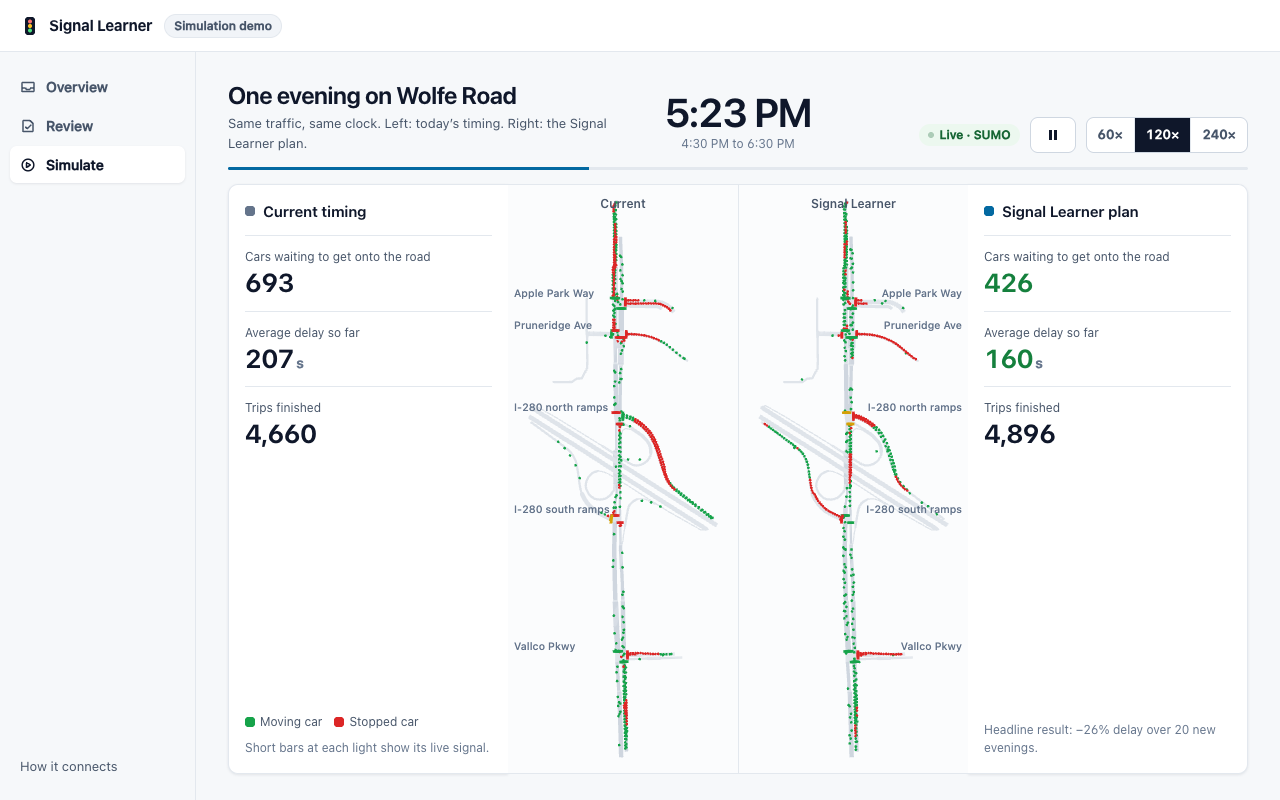
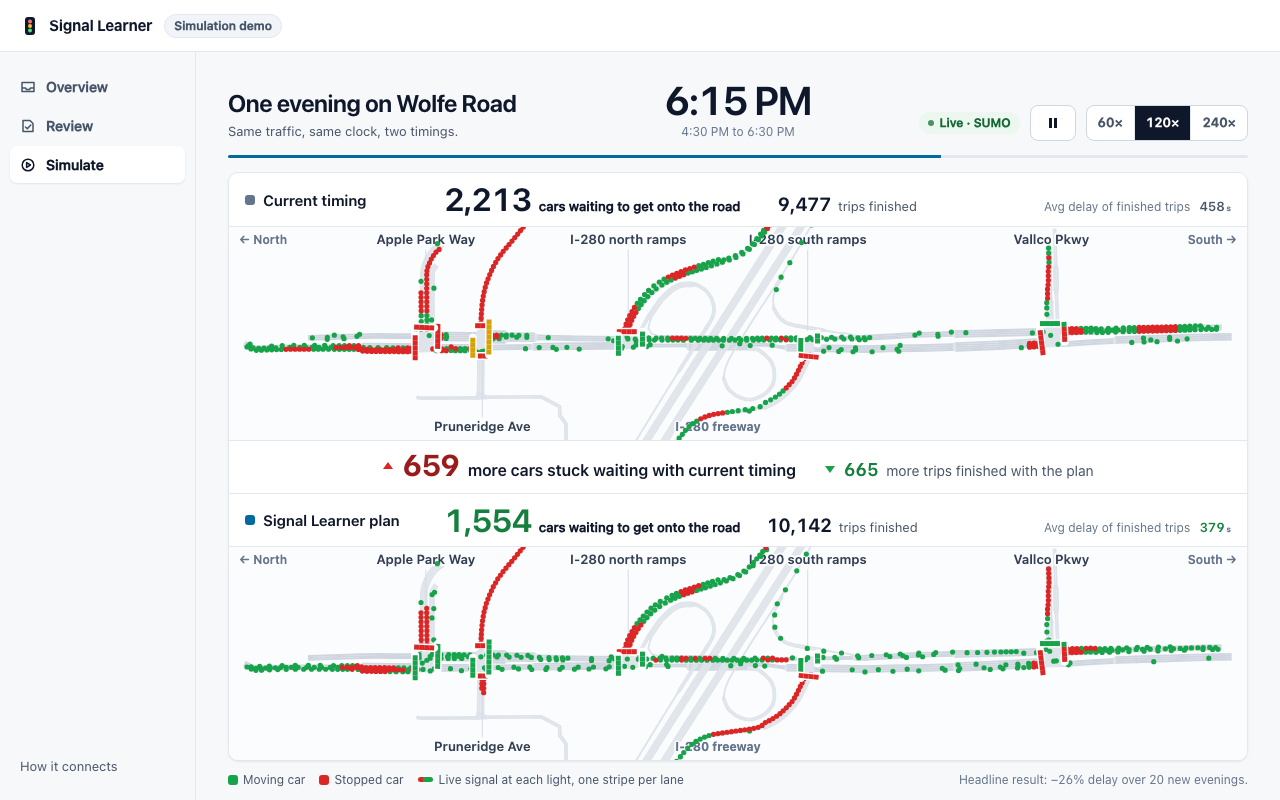
Console v2: road runs left to right, stacked maps, live gap callout, waiting count as the hero

diff --git a/dashboard/console/console.js b/dashboard/console/console.js
@@ -117,17 +117,22 @@ const decision = d => decisions[d.road] || {};
 /* ---------- Map (real SUMO lane shapes) ---------- */
 
 // Projection that fits the road's bounds into a w×h box, north up.
-function fit(geo, w, h, pad = 14) {
+// along: the road's length runs left→right across the full width (north on the left); side streets past the box edge are cut off.
+function fit(geo, w, h, pad = 14, along = false) {
   const [x0, y0, x1, y1] = geo.bounds;
+  if (along) {
+    const k = (w - 2 * pad) / (y1 - y0), mid = (x0 + x1) / 2;
+    return { k, x: (x, y) => pad + (y1 - y) * k, y: (x, y) => h / 2 - (x - mid) * k };
+  }
   const k = Math.min((w - 2 * pad) / (x1 - x0), (h - 2 * pad) / (y1 - y0));
   const ox = (w - (x1 - x0) * k) / 2, oy = (h - (y1 - y0) * k) / 2;
-  return { k, x: x => ox + (x - x0) * k, y: y => h - oy - (y - y0) * k };
+  return { k, x: (x, y) => ox + (x - x0) * k, y: (x, y) => h - oy - (y - y0) * k };
 }
 
 function path(ctx, p, xy) {
   ctx.beginPath();
-  ctx.moveTo(p.x(xy[0]), p.y(xy[1]));
-  for (let i = 2; i < xy.length; i += 2) ctx.lineTo(p.x(xy[i]), p.y(xy[i + 1]));
+  ctx.moveTo(p.x(xy[0], xy[1]), p.y(xy[0], xy[1]));
+  for (let i = 2; i < xy.length; i += 2) ctx.lineTo(p.x(xy[i], xy[i + 1]), p.y(xy[i], xy[i + 1]));
 }
 
 function canvasFor(box) {
@@ -158,23 +163,61 @@ const centre = sig => {
   return [mean(xs), mean(ys)];
 };
 
+const FONT = '-apple-system, BlinkMacSystemFont, "Segoe UI", sans-serif';
+
+function halo(ctx, text, x, y, color) {
+  ctx.lineWidth = 4; ctx.strokeStyle = 'rgba(251,252,253,.92)'; ctx.lineJoin = 'round';
+  ctx.strokeText(text, x, y);
+  ctx.fillStyle = color; ctx.fillText(text, x, y);
+}
+
+// Names for a left→right map: lights above the road (or below when two are close), the ends, and the freeway.
+function nameAlong(ctx, geo, p, w, h, gapFromRoad) {
+  ctx.textBaseline = 'middle';
+  ctx.font = `600 12px ${FONT}`;
+  ctx.textAlign = 'left'; halo(ctx, '← North', 10, 13, '#64748b');
+  ctx.textAlign = 'right'; halo(ctx, 'South →', w - 10, 13, '#64748b');
+  ctx.textAlign = 'center';
+  let free = 10 + ctx.measureText('← North').width + 10;
+  const below = [];
+  const sigs = geo.signals.map(sig => { const [cx, cy] = centre(sig); return { name: sig.name, x: p.x(cx, cy), y: p.y(cx, cy) }; }).sort((a, b) => a.x - b.x);
+  ctx.font = `600 13px ${FONT}`;
+  for (const s of sigs) {
+    const half = ctx.measureText(s.name).width / 2, top = s.x - half > free;
+    const ly = top ? 13 : h - 13;
+    if (top) free = s.x + half + 12; else below.push([s.x - half, s.x + half]);
+    ctx.strokeStyle = '#d5dce4'; ctx.lineWidth = 1;
+    ctx.beginPath(); ctx.moveTo(s.x, top ? ly + 10 : ly - 10); ctx.lineTo(s.x, top ? s.y - gapFromRoad : s.y + gapFromRoad); ctx.stroke();
+    halo(ctx, s.name, s.x, ly, '#334155');
+  }
+  const ramps = sigs.filter(s => s.name.startsWith('I-280'));
+  if (ramps.length === 2) {
+    ctx.font = `700 12px ${FONT}`;
+    const x = (ramps[0].x + ramps[1].x) / 2, half = ctx.measureText('I-280 freeway').width / 2;
+    if (!below.some(([a, b]) => x + half > a && x - half < b)) halo(ctx, 'I-280 freeway', x, h - 13, '#64748b');
+  }
+}
+
 // Static map with named light markers (Overview, De Anza card).
 function drawMap(box, geo) {
   const { ctx, w, h } = canvasFor(box);
-  const p = fit(geo, w, h, 22);
+  const along = box.hasAttribute('data-along');
+  const p = fit(geo, w, h, 22, along);
   drawRoads(ctx, geo, p);
-  ctx.font = '600 12px -apple-system, BlinkMacSystemFont, "Segoe UI", sans-serif';
+  ctx.font = `600 12px ${FONT}`;
   ctx.textBaseline = 'middle';
   geo.signals.forEach(sig => {
-    const [cx, cy] = centre(sig), x = p.x(cx), y = p.y(cy);
+    const [cx, cy] = centre(sig), x = p.x(cx, cy), y = p.y(cx, cy);
     ctx.beginPath(); ctx.arc(x, y, 7, 0, 2 * Math.PI);
     ctx.fillStyle = '#fff'; ctx.fill(); ctx.lineWidth = 2.5; ctx.strokeStyle = '#0369a1'; ctx.stroke();
     ctx.beginPath(); ctx.arc(x, y, 2.5, 0, 2 * Math.PI); ctx.fillStyle = '#0369a1'; ctx.fill();
+    if (along) return;
     const label = sig.name, tw = ctx.measureText(label).width;
     const lx = x + 14 + tw + 8 < w ? x + 14 : Math.max(4, x - 14 - tw);
     ctx.fillStyle = 'rgba(255,255,255,.88)'; ctx.fillRect(lx - 4, y - 10, tw + 8, 20);
     ctx.fillStyle = '#0f172a'; ctx.fillText(label, lx, y);
   });
+  if (along) nameAlong(ctx, geo, p, w, h, 12);
 }
 
 const mapLabel = geo => `Map of ${geo.street} from the simulation road network, with ${geo.signals.length} traffic lights: ${geo.signals.map(s => s.name).join(', ')}.`;
@@ -190,10 +233,10 @@ function overview(w, z) {
   <div class="overview">
     <section class="card map-card" aria-labelledby="map-title">
       <div class="row" style="justify-content:space-between"><h2 id="map-title">${esc(w.info.street)}</h2><span class="hint">${w.geo.signals.length} traffic lights</span></div>
-      <div class="map" id="overview-map" role="img" aria-label="${esc(mapLabel(w.geo))}"></div>
+      <div class="map" id="overview-map" data-along role="img" aria-label="${esc(mapLabel(w.geo))} North is on the left."></div>
     </section>
+    <h2 class="label">Inbox</h2>
     <section class="inbox" aria-label="Inbox">
-      <h2 class="label">Inbox</h2>
       <article class="card rec primary">
         <div class="meta"><span class="pill ${status[1]}">${status[0]}</span><span>Evening peak, ${ampm(seconds(w.info.begin))}–${ampm(seconds(w.info.end))}</span></div>
         <h3>${esc(w.info.street)}: new timing ready for review</h3>
@@ -321,34 +364,41 @@ function calm(d) {
 
 function simulate(d) {
   const h = heldout(d), begin = seconds(d.info.begin), end = seconds(d.info.end);
-  const panel = (arm, side) => `<section class="card side-panel ${side}" aria-labelledby="h-${arm}">
-    <h2 id="h-${arm}"><span class="sw" style="background:${arm === 'old' ? 'var(--faint)' : 'var(--accent)'}"></span>${ARM_NAME[arm]}</h2>
-    <div class="counter"><span>Cars waiting to get onto the road</span><b data-k="waiting" data-arm="${arm}">–</b></div>
-    <div class="counter"><span>Average delay so far</span><b data-k="delay" data-arm="${arm}">–</b></div>
-    <div class="counter"><span>Trips finished</span><b data-k="finished" data-arm="${arm}">–</b></div>
-    <div class="panel-foot">${arm === 'old'
-      ? '<span class="legend"><span><i class="dot" style="background:var(--go)"></i>Moving car</span><span><i class="dot" style="background:var(--stop)"></i>Stopped car</span></span><span class="hint">Short bars at each light show its live signal.</span>'
-      : `<span class="hint">Headline result: ${pct(h.oldMean, h.planMean)} delay over ${h.n} new evenings.</span>`}</div>
+  const arrow = up => `<svg viewBox="0 0 12 12" aria-hidden="true"><path d="${up ? 'M6 2 11 9H1z' : 'M6 10 1 3h10z'}"/></svg>`;
+  const panel = arm => `<section class="arm ${arm}" aria-labelledby="h-${arm}">
+    <div class="arm-head">
+      <h2 id="h-${arm}"><span class="sw"></span>${ARM_NAME[arm]}</h2>
+      <div class="counter hero"><b data-k="waiting" data-arm="${arm}"><small>–</small></b><span>cars waiting to get onto the road</span></div>
+      <div class="counter"><b data-k="finished" data-arm="${arm}"><small>–</small></b><span>trips finished</span></div>
+      <div class="counter tiny"><span>Avg delay of finished trips</span><b data-k="delay" data-arm="${arm}"><small>–</small></b></div>
+    </div>
+    <div class="sim-map" id="map-${arm}" role="img" aria-label="Live map, ${ARM_NAME[arm]}: ${esc(d.info.street)} runs left to right, north on the left. Moving cars green, stopped cars red."></div>
   </section>`;
-  return `<div class="page" style="max-width:1180px">
+  return `<div class="page sim-page">
   <div class="sim-top">
-    <div><h1>One evening on ${esc(d.info.street)}</h1><p class="small muted" style="margin-top:4px">Same traffic, same clock. Left: today’s timing. Right: the Signal Learner plan.</p></div>
+    <div><h1>One evening on ${esc(d.info.street)}</h1><p class="small muted" style="margin-top:4px">Same traffic, same clock, two timings.</p></div>
     <div class="clock" aria-live="off"><b id="clock">${ampm(begin)}</b><span id="clock-note">${ampm(begin)} to ${ampm(end)}</span></div>
     <div class="right"><span class="pill" id="source">Ready</span>
       <button class="btn" id="play" data-action="toggle" disabled aria-label="Pause"><svg viewBox="0 0 16 16" aria-hidden="true"><path d="M4 3h3v10H4zM9 3h3v10H9z"/></svg></button>
       <div class="seg" role="group" aria-label="Speed">${SPEEDS.map(s => `<button type="button" data-speed="${s}" aria-pressed="${s === 120}">${s}×</button>`).join('')}</div></div>
   </div>
   <div class="progress" aria-hidden="true"><i id="progress"></i></div>
-  <div class="stage">
-    ${panel('old', 'left')}
-    <div class="sim-map" id="map-old" role="img" aria-label="Live map, current timing: moving cars green, stopped cars red."><span class="caption">Current</span></div>
-    <div class="sim-map" id="map-plan" role="img" aria-label="Live map, Signal Learner plan: moving cars green, stopped cars red."><span class="caption">Signal Learner</span></div>
-    ${panel('plan', 'right')}
+  <div class="card stage">
+    ${panel('old')}
+    <div class="gap even" id="gap">
+      <p class="gap-main">${arrow(true)}<b id="gap-n">0</b><span class="gap-on">more cars stuck waiting with current timing</span><span class="gap-off">Same cars, same evening: watch the queues</span></p>
+      <p class="gap-sub" id="gap-sub" hidden>${arrow(false)}<b id="gap-f">0</b>more trips finished with the plan</p>
+    </div>
+    ${panel('plan')}
     <div class="overlay" id="overlay">
       <div class="card pad start" id="start"><h2>Watch both timings handle the same evening</h2>
         <p class="small muted">${ampm(begin)} to ${ampm(end)}, about ${Math.round((end - begin) / 120)} seconds at 120×. Each dot is a car.</p>
         <button class="btn primary lg" data-action="start">Run the simulation</button></div>
     </div>
+  </div>
+  <div class="sim-foot">
+    <span class="legend"><span><i class="dot" style="background:var(--go)"></i>Moving car</span><span><i class="dot" style="background:var(--stop)"></i>Stopped car</span><span><i class="sig"></i>Live signal at each light, one stripe per lane</span></span>
+    <span class="hint">Headline result: ${pct(h.oldMean, h.planMean)} delay over ${h.n} new evenings.</span>
   </div>
   <p class="sr" aria-live="polite" id="sim-status"></p>
 </div>`;
@@ -422,6 +472,24 @@ async function loadRecording() {
   return { frames, final: head.final };
 }
 
+// One bar per approach at each light, across its stop line, with one stripe per lane (lanes are too close to draw apart).
+function approaches(stops, p) {
+  const groups = [];
+  for (const s of stops) {
+    const [ax, ay, bx, by] = s.xy, x = p.x(bx, by), y = p.y(bx, by);
+    const dx = x - p.x(ax, ay), dy = y - p.y(ax, ay), l = Math.hypot(dx, dy) || 1, ux = dx / l, uy = dy / l;
+    let g = groups.find(g => g.ux * ux + g.uy * uy > 0.8);
+    if (!g) groups.push(g = { ux, uy, lanes: [] });
+    g.lanes.push({ x, y, links: s.links });
+  }
+  return groups.map(({ ux, uy, lanes }) => {
+    const nx = -uy, ny = ux, cx = mean(lanes.map(l => l.x)), cy = mean(lanes.map(l => l.y));
+    const across = l => (l.x - cx) * nx + (l.y - cy) * ny;
+    lanes.sort((a, b) => across(a) - across(b));
+    return { x: cx - ux * 2, y: cy - uy * 2, nx, ny, len: Math.max(lanes.length * 5, 10), links: lanes.map(l => l.links) };
+  });
+}
+
 const lightColor = (state, links) => {
   let c = 'r';
   for (const i of links) { const s = state[i]; if (s === 'G' || s === 'g') return '#16a34a'; if (s === 'y' || s === 'Y') c = 'y'; }
@@ -442,26 +510,20 @@ class Player {
   layout() {
     for (const v of this.views) {
       Object.assign(v, canvasFor(v.box));
-      v.p = fit(this.d.geo, v.w, v.h, 16);
+      v.p = fit(this.d.geo, v.w, v.h, 16, true);
       v.bg = document.createElement('canvas');
       v.bg.width = v.canvas.width; v.bg.height = v.canvas.height;
       const bg = v.bg.getContext('2d');
       const r = window.devicePixelRatio || 1;
       bg.setTransform(r, 0, 0, r, 0, 0);
       drawRoads(bg, this.d.geo, v.p);
-      bg.font = '500 10.5px -apple-system, BlinkMacSystemFont, "Segoe UI", sans-serif';
-      bg.fillStyle = '#64748b'; bg.textBaseline = 'middle';
-      bg.textAlign = v.arm === 'old' ? 'left' : 'right';
-      for (const sig of this.d.geo.signals) bg.fillText(sig.name, v.arm === 'old' ? 6 : v.w - 6, v.p.y(centre(sig)[1]) - 9);
-      v.stops = this.d.geo.signals.map(sig => sig.stops.map(s => {
-        const [ax, ay, bx, by] = s.xy, dx = bx - ax, dy = by - ay, l = Math.hypot(dx, dy) || 1;
-        return { x: v.p.x(bx), y: v.p.y(by), nx: -dy / l, ny: -dx / l, links: s.links };
-      }));
+      nameAlong(bg, this.d.geo, v.p, v.w, v.h, 18);
+      v.stops = this.d.geo.signals.map(sig => approaches(sig.stops, v.p));
     }
   }
   async start() {
     this.stopSource();
-    this.frames = []; this.idx = 0; this.t = this.begin; this.done = null; this.playing = true; this.last = performance.now();
+    this.frames = []; this.idx = 0; this.t = this.begin; this.done = null; this.playing = true; this.last = performance.now(); this.hundred = 0;
     document.getElementById('overlay').hidden = true;
     document.getElementById('play').disabled = false;
     this.say('Starting the simulation');
@@ -566,7 +628,7 @@ class Player {
       ctx.drawImage(v.bg, 0, 0, v.w, v.h);
       if (!sa) continue;
       if (!sa.index) { sa.index = new Map(); for (let i = 0; i < sa.n; i++) sa.index.set(sa.ids[i], i); }
-      const r = Math.max(1.4, 2.2 * p.k * 1.4);
+      const r = Math.max(2.6, 4 * p.k);
       for (const stopped of [0, 1]) {
         ctx.fillStyle = stopped ? '#dc2626' : '#16a34a';
         ctx.beginPath();
@@ -575,43 +637,62 @@ class Player {
           const j = sa.index.get(sb.ids[i]);
           const x = j === undefined ? sb.x[i] : sa.x[j] + (sb.x[i] - sa.x[j]) * u;
           const y = j === undefined ? sb.y[i] : sa.y[j] + (sb.y[i] - sa.y[j]) * u;
-          const px = p.x(x), py = p.y(y);
+          const px = p.x(x, y), py = p.y(x, y);
           ctx.moveTo(px + r, py); ctx.arc(px, py, r, 0, 6.2832);
         }
         ctx.fill();
       }
-      ctx.lineWidth = 2.5; ctx.lineCap = 'butt';
-      v.stops.forEach((stops, k) => {
+      v.stops.forEach((bars, k) => {
         const state = sa.lights[k] || '';
-        for (const s of stops) {
-          ctx.strokeStyle = lightColor(state, s.links);
-          ctx.beginPath(); ctx.moveTo(s.x - s.nx * 3, s.y - s.ny * 3); ctx.lineTo(s.x + s.nx * 3, s.y + s.ny * 3); ctx.stroke();
+        for (const s of bars) {
+          const x0 = s.x - s.nx * s.len / 2, y0 = s.y - s.ny * s.len / 2, step = s.len / s.links.length;
+          ctx.lineCap = 'round'; ctx.lineWidth = 8; ctx.strokeStyle = '#fff';
+          ctx.beginPath(); ctx.moveTo(x0, y0); ctx.lineTo(x0 + s.nx * s.len, y0 + s.ny * s.len); ctx.stroke();
+          ctx.lineCap = 'butt'; ctx.lineWidth = 5;
+          s.links.forEach((links, i) => {
+            ctx.strokeStyle = lightColor(state, links);
+            ctx.beginPath(); ctx.moveTo(x0 + s.nx * step * i, y0 + s.ny * step * i); ctx.lineTo(x0 + s.nx * step * (i + 1), y0 + s.ny * step * (i + 1)); ctx.stroke();
+          });
         }
       });
     }
     this.hud(a);
   }
+  // Writes only what changed, so it can run every frame.
   hud(a) {
-    const now = performance.now();
-    if (now - (this.hudAt || 0) < 200) return;
-    this.hudAt = now;
+    const set = (el, html) => { if (el._v !== html) { el._v = html; el.innerHTML = html; } };
     const t = Math.min(this.t, this.stop);
-    document.getElementById('clock').textContent = ampm(t);
-    document.getElementById('clock-note').textContent = t >= this.end ? 'Evening over: the last cars finish their trips' : `${ampm(this.begin)} to ${ampm(this.end)}`;
-    document.getElementById('progress').style.width = `${Math.min(100, (t - this.begin) / (this.stop - this.begin) * 100)}%`;
+    set(document.getElementById('clock'), ampm(t));
+    set(document.getElementById('clock-note'), t >= this.end ? 'Evening over: the last cars finish their trips' : `${ampm(this.begin)} to ${ampm(this.end)}`);
+    const bar = document.getElementById('progress'), width = `${Math.min(100, (t - this.begin) / (this.stop - this.begin) * 100).toFixed(1)}%`;
+    if (bar.style.width !== width) bar.style.width = width;
     const fmt = { waiting: x => x.toLocaleString(), finished: x => x.toLocaleString(), delay: x => `${Math.round(x)}<small>s</small>` };
-    const val = {};
-    for (const arm of ARMS) if (a[arm]) val[arm] = a[arm];
     for (const el of this.counters) {
-      const s = val[el.dataset.arm]; if (!s) continue;
-      el.innerHTML = fmt[el.dataset.k](s[el.dataset.k]);
-      const other = val[el.dataset.arm === 'old' ? 'plan' : 'old'];
+      const s = a[el.dataset.arm]; if (!s) continue;
+      set(el, fmt[el.dataset.k](s[el.dataset.k]));
+      const other = a[el.dataset.arm === 'old' ? 'plan' : 'old'];
       el.parentElement.classList.toggle('better', el.dataset.arm === 'plan' && !!other && el.dataset.k !== 'finished' && s[el.dataset.k] < other[el.dataset.k]);
     }
+    if (a.old && a.plan) this.gap(a.old.waiting - a.plan.waiting, a.plan.finished - a.old.finished);
+  }
+  gap(n, f) {
+    const box = document.getElementById('gap'), num = document.getElementById('gap-n');
+    box.classList.toggle('even', n <= 0);
+    if (n > 0 && num._v !== n) {
+      num._v = n; num.textContent = n.toLocaleString();
+      const hundred = Math.floor(n / 100);
+      if (hundred > (this.hundred || 0) && !matchMedia('(prefers-reduced-motion: reduce)').matches) {
+        num.animate([{ transform: 'scale(1.18)' }, { transform: 'none' }], { duration: 700, easing: 'cubic-bezier(.16, 1, .3, 1)' });
+      }
+      this.hundred = hundred;
+    }
+    document.getElementById('gap-sub').hidden = f <= 0;
+    const fin = document.getElementById('gap-f');
+    if (f > 0 && fin._v !== f) { fin._v = f; fin.textContent = f.toLocaleString(); }
   }
   finish() {
     this.done = true; this.playing = false;
-    this.hudAt = 0; this.draw();
+    this.draw();
     document.getElementById('play').disabled = true;
     const overlay = document.getElementById('overlay');
     overlay.innerHTML = endCard(this.d, this.final, !this.live);

diff --git a/dashboard/console/console.css b/dashboard/console/console.css
@@ -106,13 +106,13 @@ main { padding: 28px 32px 40px; min-width: 0; outline: none; }
 .hint { font-size: 12px; color: var(--faint); }
 
 /* ---------- Overview ---------- */
-.overview { display: grid; grid-template-columns: minmax(300px, 400px) 1fr; gap: 20px; align-items: start; }
-.map-card { padding: 16px 16px 12px; }
-.map-card .map { height: 560px; }
+.overview { display: grid; gap: 12px; }
+.map-card { padding: 16px 16px 8px; }
+.map-card .map { height: 220px; }
 .map { position: relative; width: 100%; }
-.map canvas { position: absolute; inset: 0; width: 100%; height: 100%; display: block; }
-.inbox { display: grid; gap: 12px; }
-.inbox h2.label { font-size: 13px; color: var(--muted); font-weight: 560; }
+.map canvas, .sim-map canvas { position: absolute; inset: 0; width: 100%; height: 100%; display: block; }
+.inbox { display: grid; grid-template-columns: 1.4fr 1fr; gap: 12px; align-items: start; }
+.overview h2.label { font-size: 13px; color: var(--muted); font-weight: 560; margin-top: 6px; }
 .rec { padding: 20px 22px; display: grid; gap: 12px; transition: box-shadow .2s var(--ease), border-color .2s; }
 .rec.primary { border-color: #b6d9ee; box-shadow: var(--shadow-lift); }
 .rec h3 { font-size: 17px; font-weight: 640; letter-spacing: -.01em; }
@@ -168,23 +168,38 @@ label.field { display: block; font-weight: 560; margin-bottom: 6px; }
 .seg button + button { border-left: 1px solid var(--line); }
 .seg button[aria-pressed="true"] { background: var(--text); color: #fff; }
 .seg button:focus-visible { outline-offset: -2px; }
-.stage { display: grid; grid-template-columns: 1fr 230px 230px 1fr; gap: 0; position: relative; }
-.side-panel { padding: 16px; display: flex; flex-direction: column; gap: 14px; }
-.panel-foot { margin-top: auto; display: grid; gap: 8px; }
-.panel-foot .legend { gap: 12px; }
-.side-panel.left { border-radius: var(--radius) 0 0 var(--radius); border-right: 0; }
-.side-panel.right { border-radius: 0 var(--radius) var(--radius) 0; border-left: 0; }
-.side-panel h2 { display: flex; align-items: center; gap: 8px; }
-.side-panel h2 .sw { width: 10px; height: 10px; border-radius: 3px; }
-.counter { display: grid; gap: 2px; padding-top: 12px; border-top: 1px solid var(--line); }
-.counter span { font-size: 12px; color: var(--muted); }
-.counter b { font-size: 26px; line-height: 1.1; font-weight: 650; letter-spacing: -.02em; font-variant-numeric: tabular-nums; }
-.counter b small { font-size: 14px; font-weight: 550; color: var(--faint); margin-left: 2px; }
+.sim-page { max-width: 1180px; }
+.stage { position: relative; overflow: hidden; }
+.arm-head { display: flex; align-items: baseline; gap: 6px 26px; flex-wrap: wrap; padding: 10px 16px 9px; }
+.arm-head h2 { display: flex; align-items: center; gap: 8px; width: 168px; align-self: center; }
+.arm-head .sw { width: 10px; height: 10px; border-radius: 3px; background: var(--faint); }
+.arm.plan .sw { background: var(--accent); }
+.counter { display: flex; align-items: baseline; gap: 7px; }
+.counter span { font-size: 13px; color: var(--muted); }
+.counter b { font-size: 19px; line-height: 1; font-weight: 650; letter-spacing: -.01em; font-variant-numeric: tabular-nums; min-width: 3.4em; text-align: right; }
+.counter.hero b { font-size: 32px; letter-spacing: -.025em; min-width: 2.9em; }
+.counter.hero span { color: var(--text); font-weight: 520; }
+.counter.tiny { margin-left: auto; }
+.counter.tiny span { font-size: 12px; color: var(--faint); }
+.counter.tiny b { font-size: 13px; font-weight: 600; color: var(--muted); min-width: 2.6em; }
+.counter b small { font-size: .62em; font-weight: 550; color: var(--faint); margin-left: 2px; }
 .counter.better b { color: var(--go-deep); }
-.sim-map { background: #fbfcfd; border-top: 1px solid var(--line); border-bottom: 1px solid var(--line); height: 590px; position: relative; }
-.sim-map + .sim-map { border-left: 1px solid var(--line); }
-.sim-map .caption { position: absolute; top: 10px; left: 0; right: 0; text-align: center; font-size: 12px; font-weight: 600; color: var(--muted); pointer-events: none; z-index: 1; }
+.sim-map { background: #fbfcfd; border-top: 1px solid var(--line); height: clamp(200px, calc(50vh - 186px), 340px); position: relative; }
+.gap { display: flex; justify-content: center; align-items: baseline; flex-wrap: wrap; gap: 4px 28px; padding: 9px 16px 10px; border-top: 1px solid var(--line); border-bottom: 1px solid var(--line); background: var(--surface); }
+.gap p { display: flex; align-items: baseline; gap: 8px; }
+.gap p[hidden] { display: none; }
+.gap svg { width: 12px; height: 12px; align-self: center; flex: none; }
+.gap-main { font-size: 16px; font-weight: 600; }
+.gap-main svg { fill: var(--stop); }
+.gap-main b { display: inline-block; font-size: 30px; line-height: 1; font-weight: 700; letter-spacing: -.025em; color: var(--bad-text); font-variant-numeric: tabular-nums; }
+.gap-sub { font-size: 14px; color: var(--muted); }
+.gap-sub svg { fill: var(--go); }
+.gap-sub b { font-size: 18px; font-weight: 650; color: var(--go-deep); font-variant-numeric: tabular-nums; }
+.gap .gap-off, .gap.even .gap-on, .gap.even .gap-main b, .gap.even .gap-main svg { display: none; }
+.gap.even .gap-off { display: inline; color: var(--muted); font-weight: 520; line-height: 30px; }
+.sim-foot { display: flex; justify-content: space-between; align-items: center; gap: 16px; flex-wrap: wrap; margin-top: 10px; }
 .dot { display: inline-block; width: 8px; height: 8px; border-radius: 50%; margin-right: 5px; }
+.legend .sig { display: inline-block; width: 15px; height: 5px; margin-right: 6px; vertical-align: 2px; background: linear-gradient(90deg, var(--stop) 33%, var(--go) 33% 100%); }
 .overlay { position: absolute; inset: 0; display: grid; place-items: center; z-index: 2; background: rgba(246, 248, 250, .72); backdrop-filter: blur(3px); border-radius: var(--radius); }
 .overlay[hidden] { display: none; }
 .start { text-align: center; display: grid; gap: 12px; justify-items: center; max-width: 380px; }
@@ -237,15 +252,12 @@ details summary { cursor: pointer; color: var(--accent); font-size: 13px; font-w
 
 @media (max-width: 1100px) {
   .review { grid-template-columns: 1fr; }
-  .stage { grid-template-columns: 1fr 1fr; }
-  .side-panel.left, .side-panel.right { border: 1px solid var(--line); border-radius: var(--radius); }
-  .side-panel.left { order: 0; } .side-panel.right { order: 1; }
-  .sim-map { order: 2; }
 }
 @media (max-width: 760px) {
   .app { grid-template-columns: 1fr; }
   .side { position: static; height: auto; flex-direction: row; }
-  .overview { grid-template-columns: 1fr; }
+  .inbox { grid-template-columns: 1fr; }
+  .counter.tiny { margin-left: 0; }
   main { padding: 20px 16px; }
 }
 @media (prefers-reduced-motion: reduce) {
